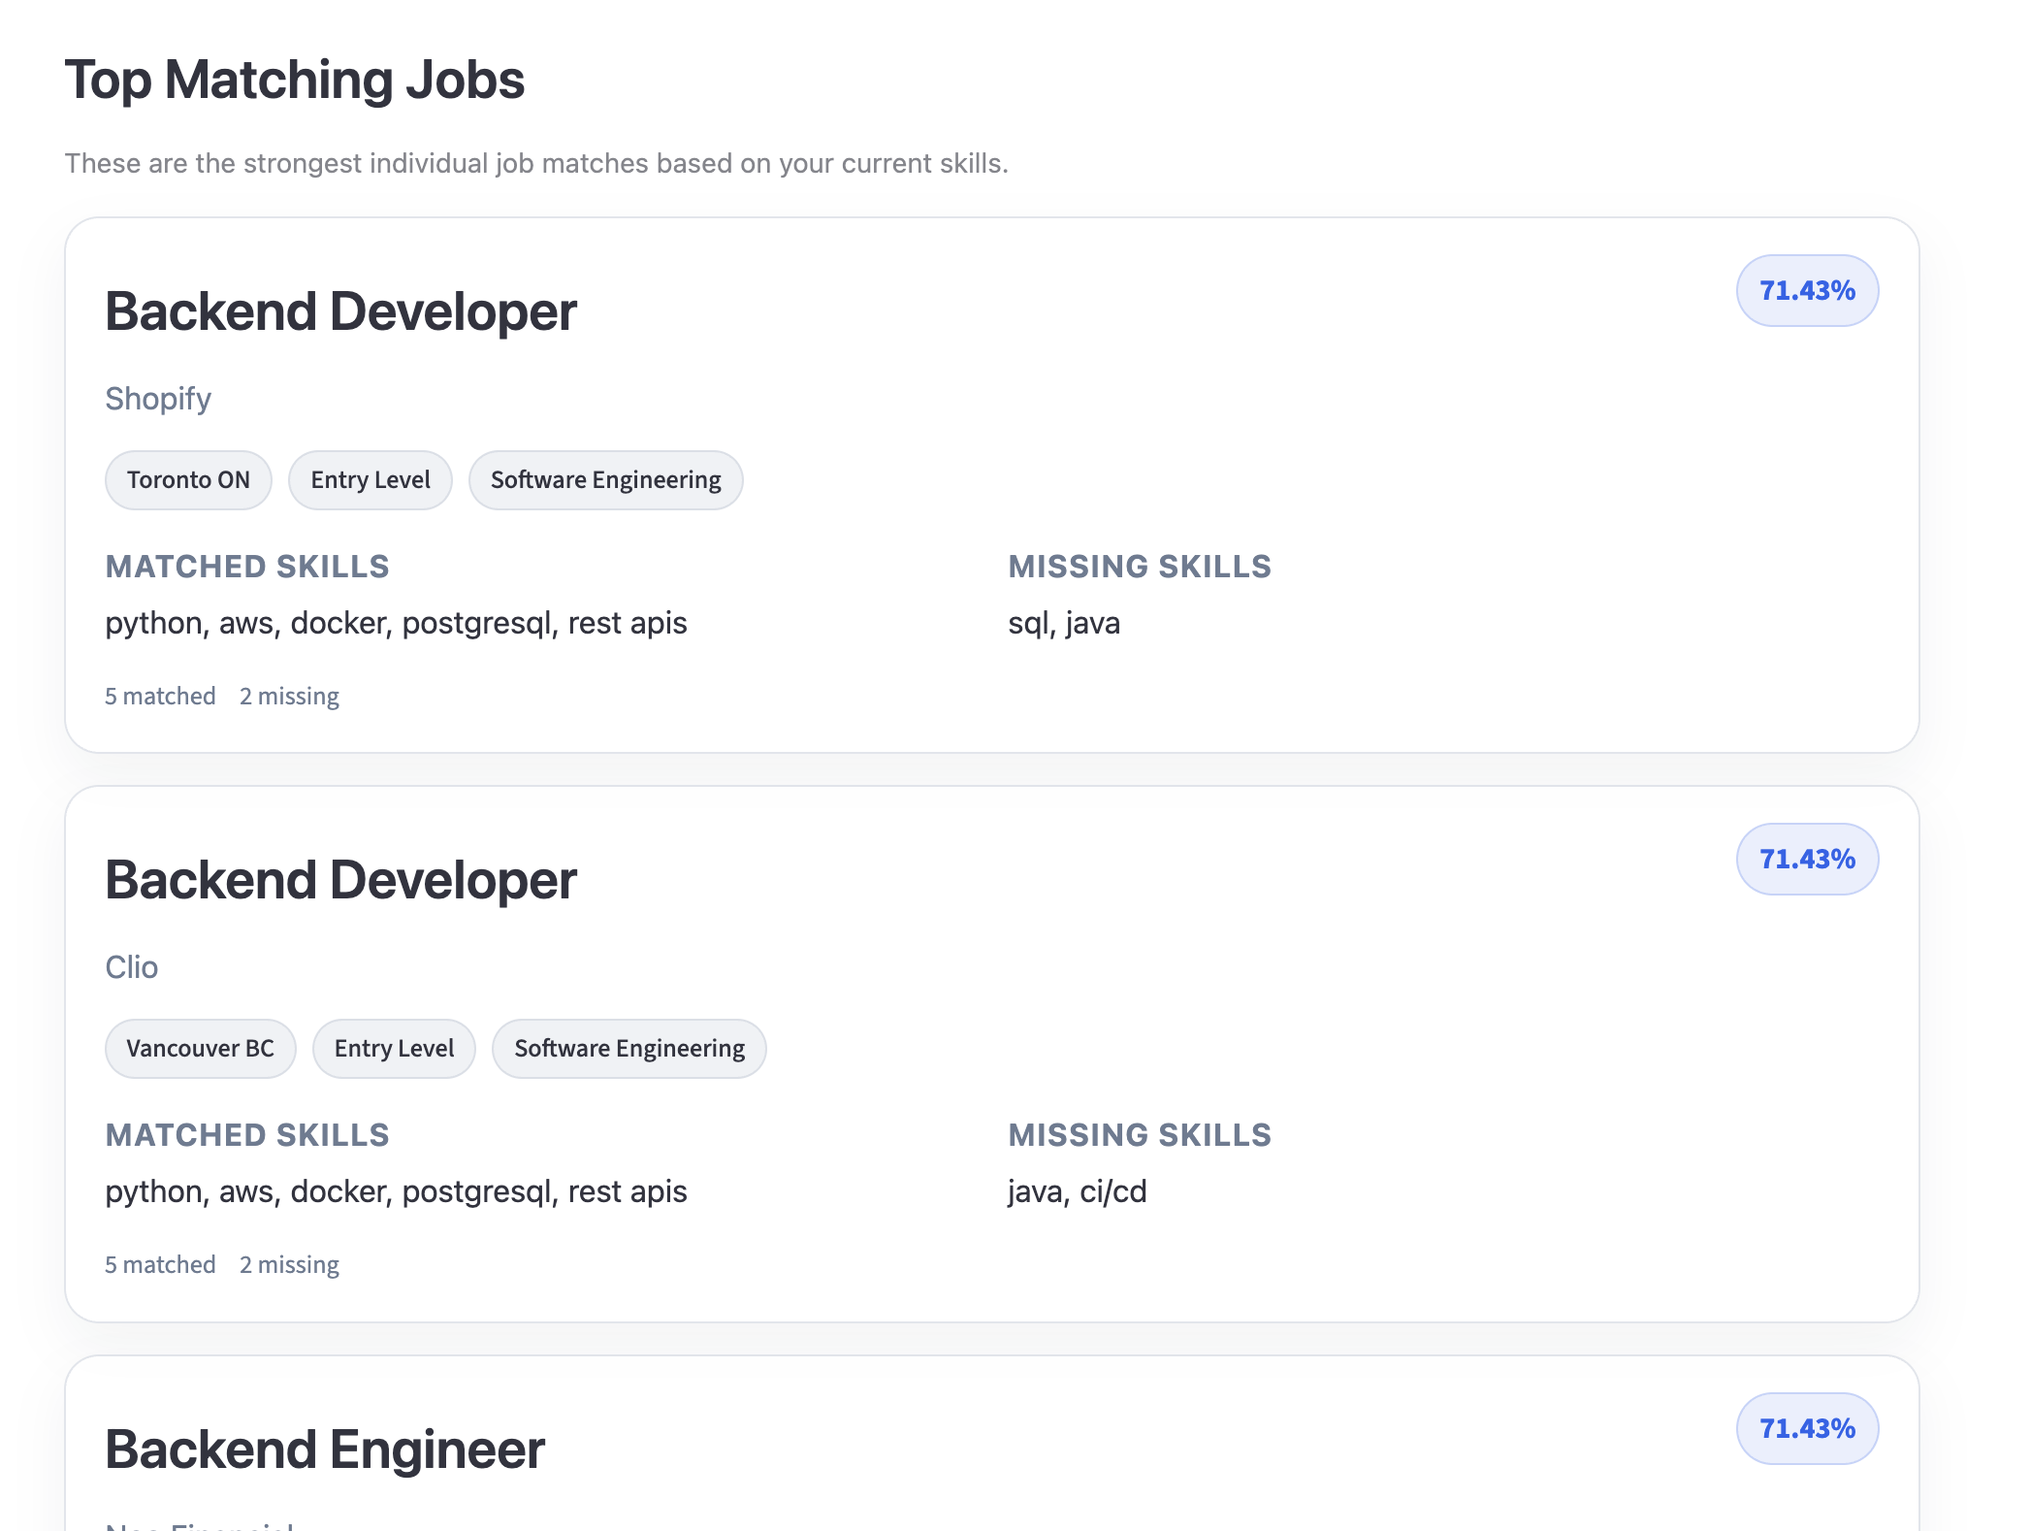
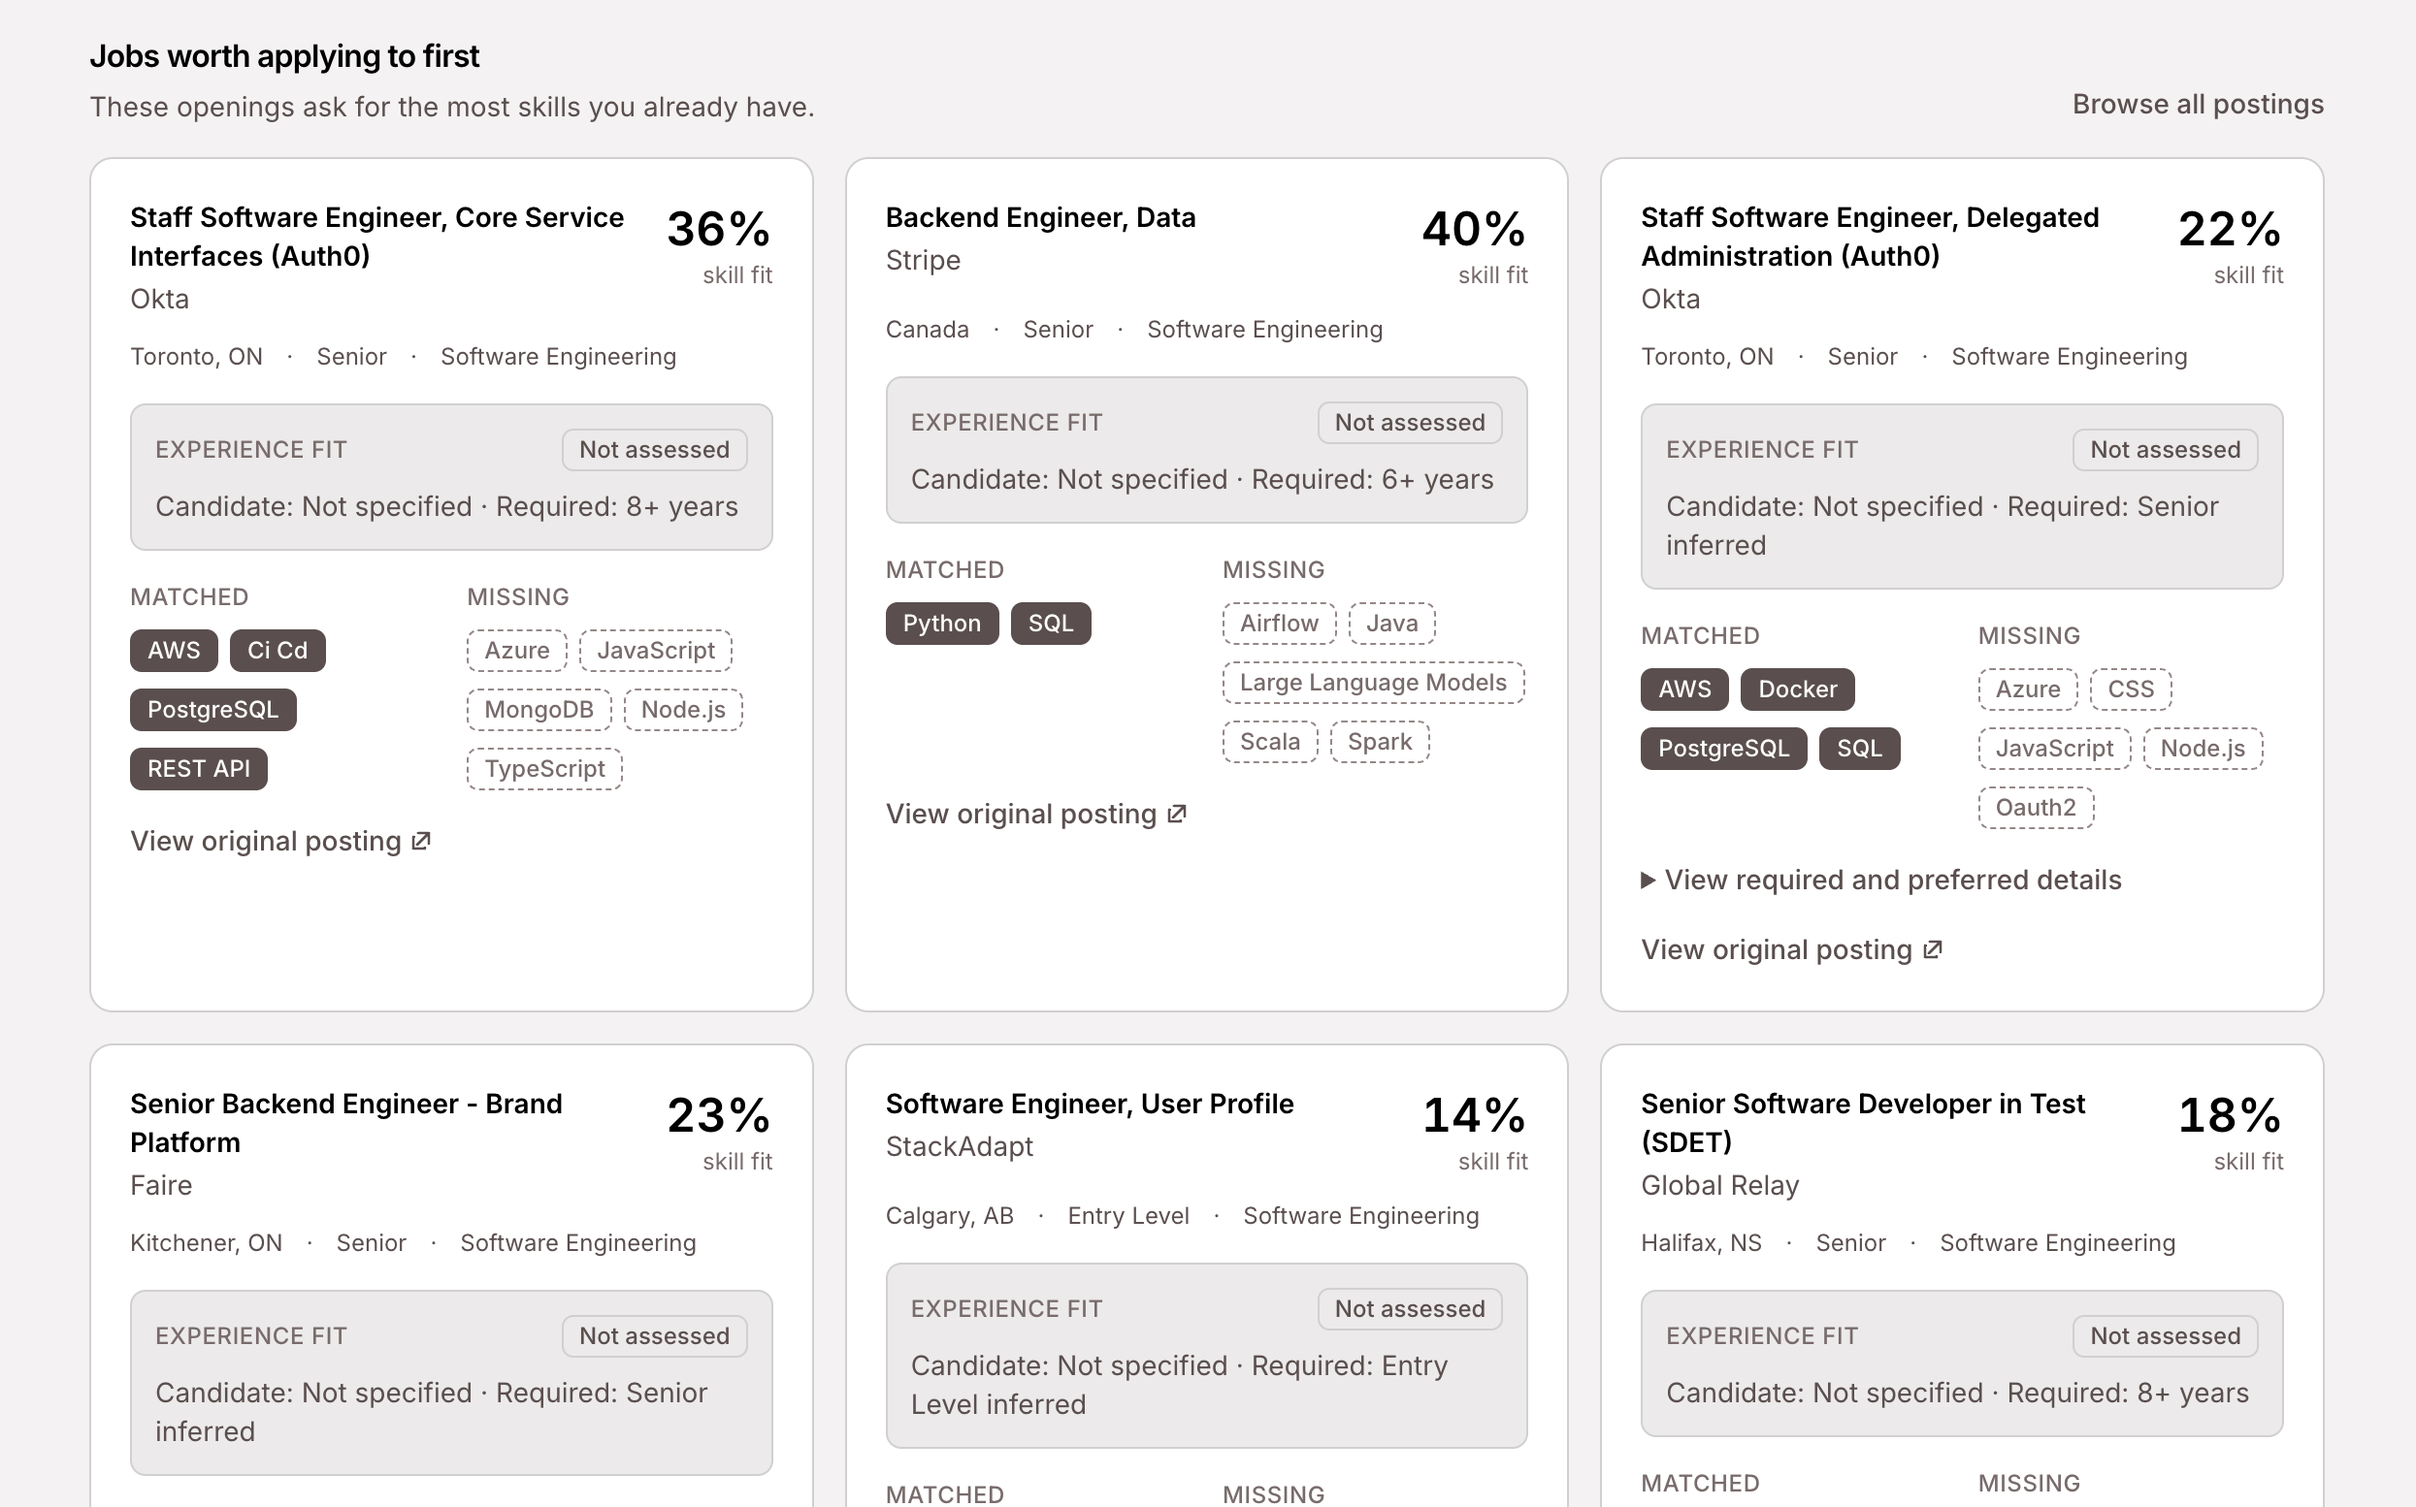
updated screenshots

diff --git a/README.md b/README.md
@@ -104,13 +104,7 @@ backend status indicator in the header.
 
 ![Role Fit Overview](assets/screenshots/role-fit-overview.png)
 
-The overview page summarizes the candidate's best-fit role, role skill fit, sample confidence, top skill gap, number of jobs analyzed, and current skill count.
-
-### Candidate Fit Summary
-
-![Candidate Fit Summary](assets/screenshots/candidate-fit-summary.png)
-
-JobLens AI generates a short natural-language summary explaining the candidate's strongest role fit, existing strengths, and highest-impact missing skills, alongside Markdown and PDF report downloads.
+The overview section summarizes the candidate's best-fit role, role skill fit, sample confidence, top skill gap, number of jobs analyzed, and current skill count.
 
 ### Top Matching Job Cards
 
@@ -122,7 +116,7 @@ The strongest individual job matches appear as cards with match score, company, 
 
 ![Market Insights](assets/screenshots/market-insights.png)
 
-The Skills & Market page shows market-level insights such as top required skills, role-specific skill importance, jobs by location, top hiring companies, and role distribution.
+The Skills & Market section  shows market-level insights such as top required skills, role-specific skill importance, jobs by location, top hiring companies, and role distribution.
 
 
 
